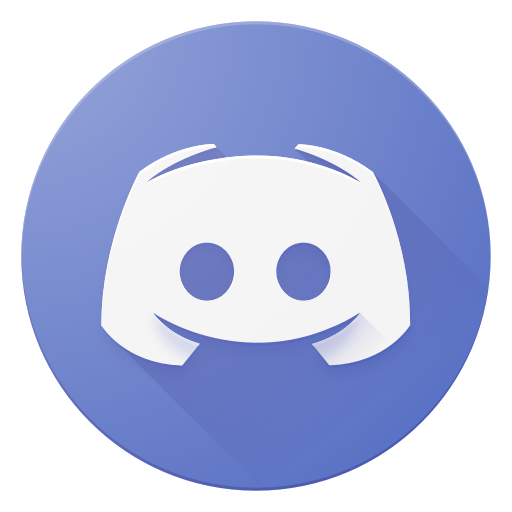
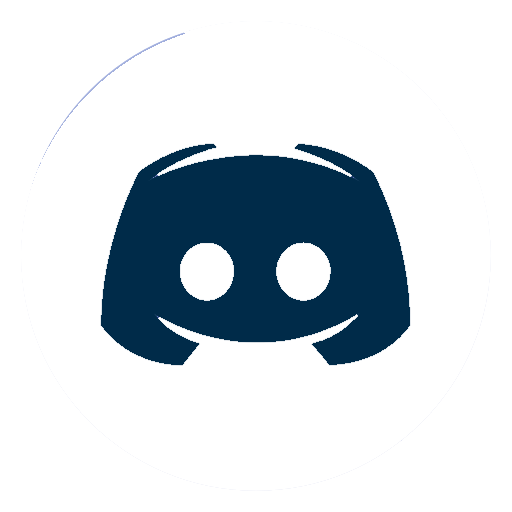
new footer

diff --git a/styles/footer.css b/styles/footer.css
@@ -1,7 +1,7 @@
 footer {
     height: 200px;
     width: 100%;
-    background-color: #444444;
+    background-color: #002B49;
     position: relative;
     text-align: center;
     padding-top: 50px;
